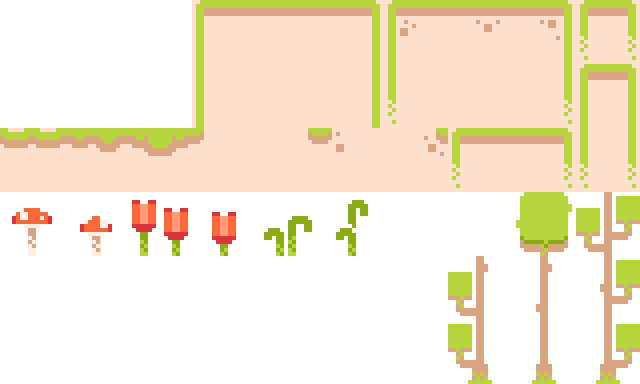
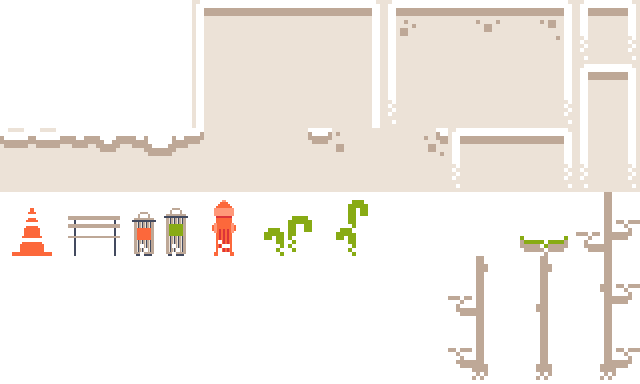
change map

diff --git a/code/settings.py b/code/settings.py
@@ -3,7 +3,7 @@ from os import walk
 from os.path import join
 from pytmx.util_pygame import load_pygame
 
-WINDOW_WIDTH, WINDOW_HEIGHT = 1280,720
-TILE_SIZE = 64 
+WINDOW_WIDTH, WINDOW_HEIGHT = 1280, 720
+TILE_SIZE = 64
 FRAMERATE = 60
-BG_COLOR = '#fcdfcd'
+BG_COLOR = "#cfeefc"
